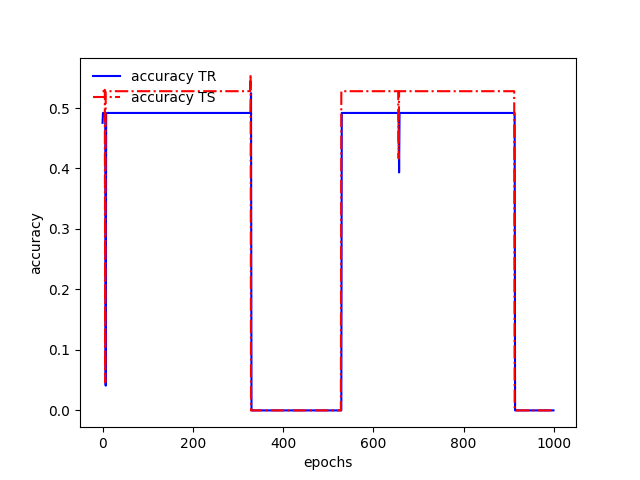
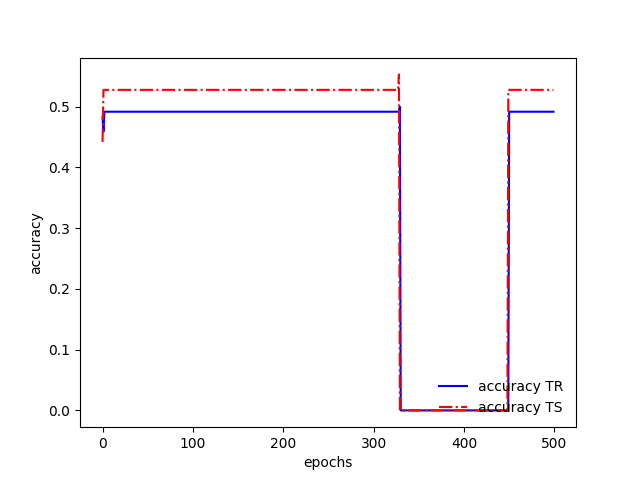
debug rete

diff --git a/nnetwork/debug_rete.py b/nnetwork/debug_rete.py
@@ -1,0 +1,176 @@
+# -*- coding: utf-8 -*-
+
+import numpy as np
+import matplotlib
+from ML_CUP_dataset import ML_CUP_Dataset
+
+matplotlib.use('TkAgg')  # mac osx need this backend
+
+import matplotlib.pyplot as plt
+
+def plotError_noTS(epochs_plot, errors):
+    plt.plot(epochs_plot, errors, color="blue", label="training error")
+    plt.xlabel("epochs")
+    plt.ylabel("error")
+    plt.legend(loc='upper right', frameon=False)
+
+    plt.show()
+
+
+def activ_func(name, x):
+    if name == 'sigmoid':
+        a = 1
+        y = x.copy()
+        return 1 / (1 + np.exp(- a * y))
+    elif name == 'relu':
+        y = x.copy()
+        return y * (y > 0)
+    elif name == 'tanh':
+        y = x.copy()
+        return np.tanh(y)
+    elif name == 'linear':
+        y = x.copy()
+        return y
+
+def activ_func_derivative(name, x):
+    if name == 'sigmoid':
+        sig = activ_func('sigmoid', x.copy())
+        deriv = sig * (1 - sig)
+        return deriv
+    elif name == 'relu':
+        y = x.copy()
+        y[y <= 0] = 0
+        y[y > 0] = 1
+        return y
+    elif name == 'tanh':
+        y = x.copy()
+        deriv = 1 -(np.tanh(y)**2)
+        return deriv
+    elif name == 'linear':
+        deriv = 1
+        return 1
+
+
+
+def mean_squared_err(target_value, neuron_out, deriv=False):
+    if deriv:
+        return - (np.subtract(target_value, neuron_out))
+    res = np.subtract(target_value, neuron_out) ** 2
+    res = np.sum(res, axis=0)
+    res = np.sum(res, axis=0)
+    return res / target_value.shape[1]
+
+def mean_euclidean_err(target_value, neurons_out, deriv=False):
+    if deriv:
+        err = mean_euclidean_err(target_value, neurons_out)
+        return np.subtract(neurons_out, target_value) * (1 / err)
+    res = np.subtract(neurons_out, target_value) ** 2  # matrice con righe = numero neuroni e colonne = numero di pattern  // è al contrario
+    res = np.sum(res, axis=0)  # somma sulle righe ora res = vettore con 1 riga e colonne = numero di pattern. ogni elemento è (t-o)^2
+    res = np.sqrt(res)
+    res = np.sum(res, axis=0)  # somma sulle colonne
+    return  0.5 #(res / target_value.shape[1])
+
+
+def __main__():
+
+
+    filename = 'ML-CUP17-TR.csv'
+    input_vect, target_vect = ML_CUP_Dataset.load_ML_dataset(filename)
+    #input_vect = input_vect[:, 0:2]
+    #target_vect = target_vect[:, 0:2]
+
+    '''params '''
+    η = 0.03
+    net_err_epochs = []
+    epochs = 100
+    hid_lay_af = 'sigmoid'
+    out_lay_af = 'linear'
+
+
+
+    # creazione rete-
+    # ------- input layer
+
+    hid_lay_w = np.ones(shape=(10,2)) * 0.7
+    hid_lay_w = np.concatenate((hid_lay_w, np.ones(shape=(1,2))), axis=0)
+    print('\n\n================= hid_lay_w ===================\n', hid_lay_w)
+
+    out_lay_w = np.ones(shape=(2,2)) * 0.7
+    out_lay_w = np.concatenate((out_lay_w, np.ones((1, 2))), axis=0)
+
+    print('\n\n================= out_lay_w ===================\n', out_lay_w)
+
+    for e in range(epochs):
+        print('----------------------___________---------------------------__________-----> epoch:', e)
+        print()
+        # ############## FORWARD PROPAGATION #################################
+
+        input_lay_out = np.concatenate((input_vect.copy(), np.ones((1, input_vect.shape[1]))), axis=0)
+
+        hid_lay_net = np.dot(hid_lay_w.T, input_lay_out)
+        print('\n\n================= hid_lay_net ===================\n', hid_lay_net)
+
+
+        hid_lay_out = activ_func(hid_lay_af, hid_lay_net)
+        hid_lay_out = np.concatenate((hid_lay_out, np.ones((1, hid_lay_net.shape[1]))), axis=0)
+
+        out_lay_net = np.dot(out_lay_w.T, hid_lay_out)
+        #out_lay_net = np.concatenate((out_lay_net, np.ones((1, out_lay_net.shape[1]))),axis=0)
+        out_lay_out = activ_func(out_lay_af, out_lay_net)
+
+        print('\n\n================= out_lay_out ===================\n', out_lay_out)
+
+        net_error = mean_euclidean_err(target_vect, out_lay_out.copy())
+        net_err_epochs.append(net_error)
+
+        print('\n\n================= Error ===================\n', net_error)
+
+
+        # ############### BACKPROPAGATION ##########################################
+
+        err_deriv = mean_euclidean_err(target_vect.copy(), out_lay_out.copy(), True)
+        f_prime_out = activ_func_derivative(out_lay_af, out_lay_net.copy())
+        print('\n\n================= F_prime out ===================\n', f_prime_out)
+
+
+        #delt = deriv(E/out) * f'(net)
+        out_lay_delta = err_deriv * f_prime_out
+        print('\n\n================= out_layer deltas ===================\n', out_lay_delta)
+
+        f_prime_hid = activ_func_derivative(hid_lay_af, hid_lay_net.copy())
+        print('\n\n================= f_prime_hid ===================\n', f_prime_hid)
+
+
+        out_lay_w_nobias = np.delete(out_lay_w.copy(), -1, 0)  # tolta la riga dei pesi del bias
+
+        hid_lay_delta = np.dot(out_lay_w_nobias.T, out_lay_delta.copy()) * f_prime_hid
+
+        print('\n\n================= hid_layer deltas ===================\n', out_lay_delta)
+
+
+        Δw_hid = np.dot(input_lay_out, hid_lay_delta.T) * η
+        
+        Δw_hid = np.concatenate((Δw_hid, np.zeros((1, Δw_hid.shape[1]))), axis=0)
+
+
+
+        print('\n\n================= Δw_hid  ===================\n', Δw_hid)
+
+        Δw_out = np.dot(hid_lay_out, out_lay_delta.T) * η
+
+        print('\n\n================= Δw_out  ===================\n', Δw_out)
+
+        # weights update
+
+        hid_lay_w = hid_lay_w - Δw_hid
+        out_lay_w = out_lay_w - Δw_out
+
+    last_net_error = mean_euclidean_err(target_vect, out_lay_out.copy())
+    print('\n\n================= hid_lay_w Last===================\n', hid_lay_w)
+    print('\n\n================= out_lay_w Last===================\n', out_lay_w)
+    print('\n\n================= final Error ===================\n', last_net_error)
+
+    plotError_noTS(range(0, len(net_err_epochs)), net_err_epochs)
+
+
+__main__()

diff --git a/nnetwork/test_rete_mick.py b/nnetwork/test_rete_mick.py
@@ -31,7 +31,7 @@ def __main__():
         "eta": 0.1,
         'alfa': 0.9,
         'lambd': 0.01,
-        "epochs": 1
+        "epochs": 500
         }
     trainer = NeuralTrainer(neural_net, **args)
 
@@ -44,6 +44,7 @@ def __main__():
     monk_test_input = monk_test[1]
 
     trainer.train_network(monk_input, monk_targets, monk_test_input, monk_test_target,'d', True)
+    print(neural_net.output_layer.output)
     cross = CrossValidator(trainer)
     cross.k_fold(monk_input, monk_targets)
 
